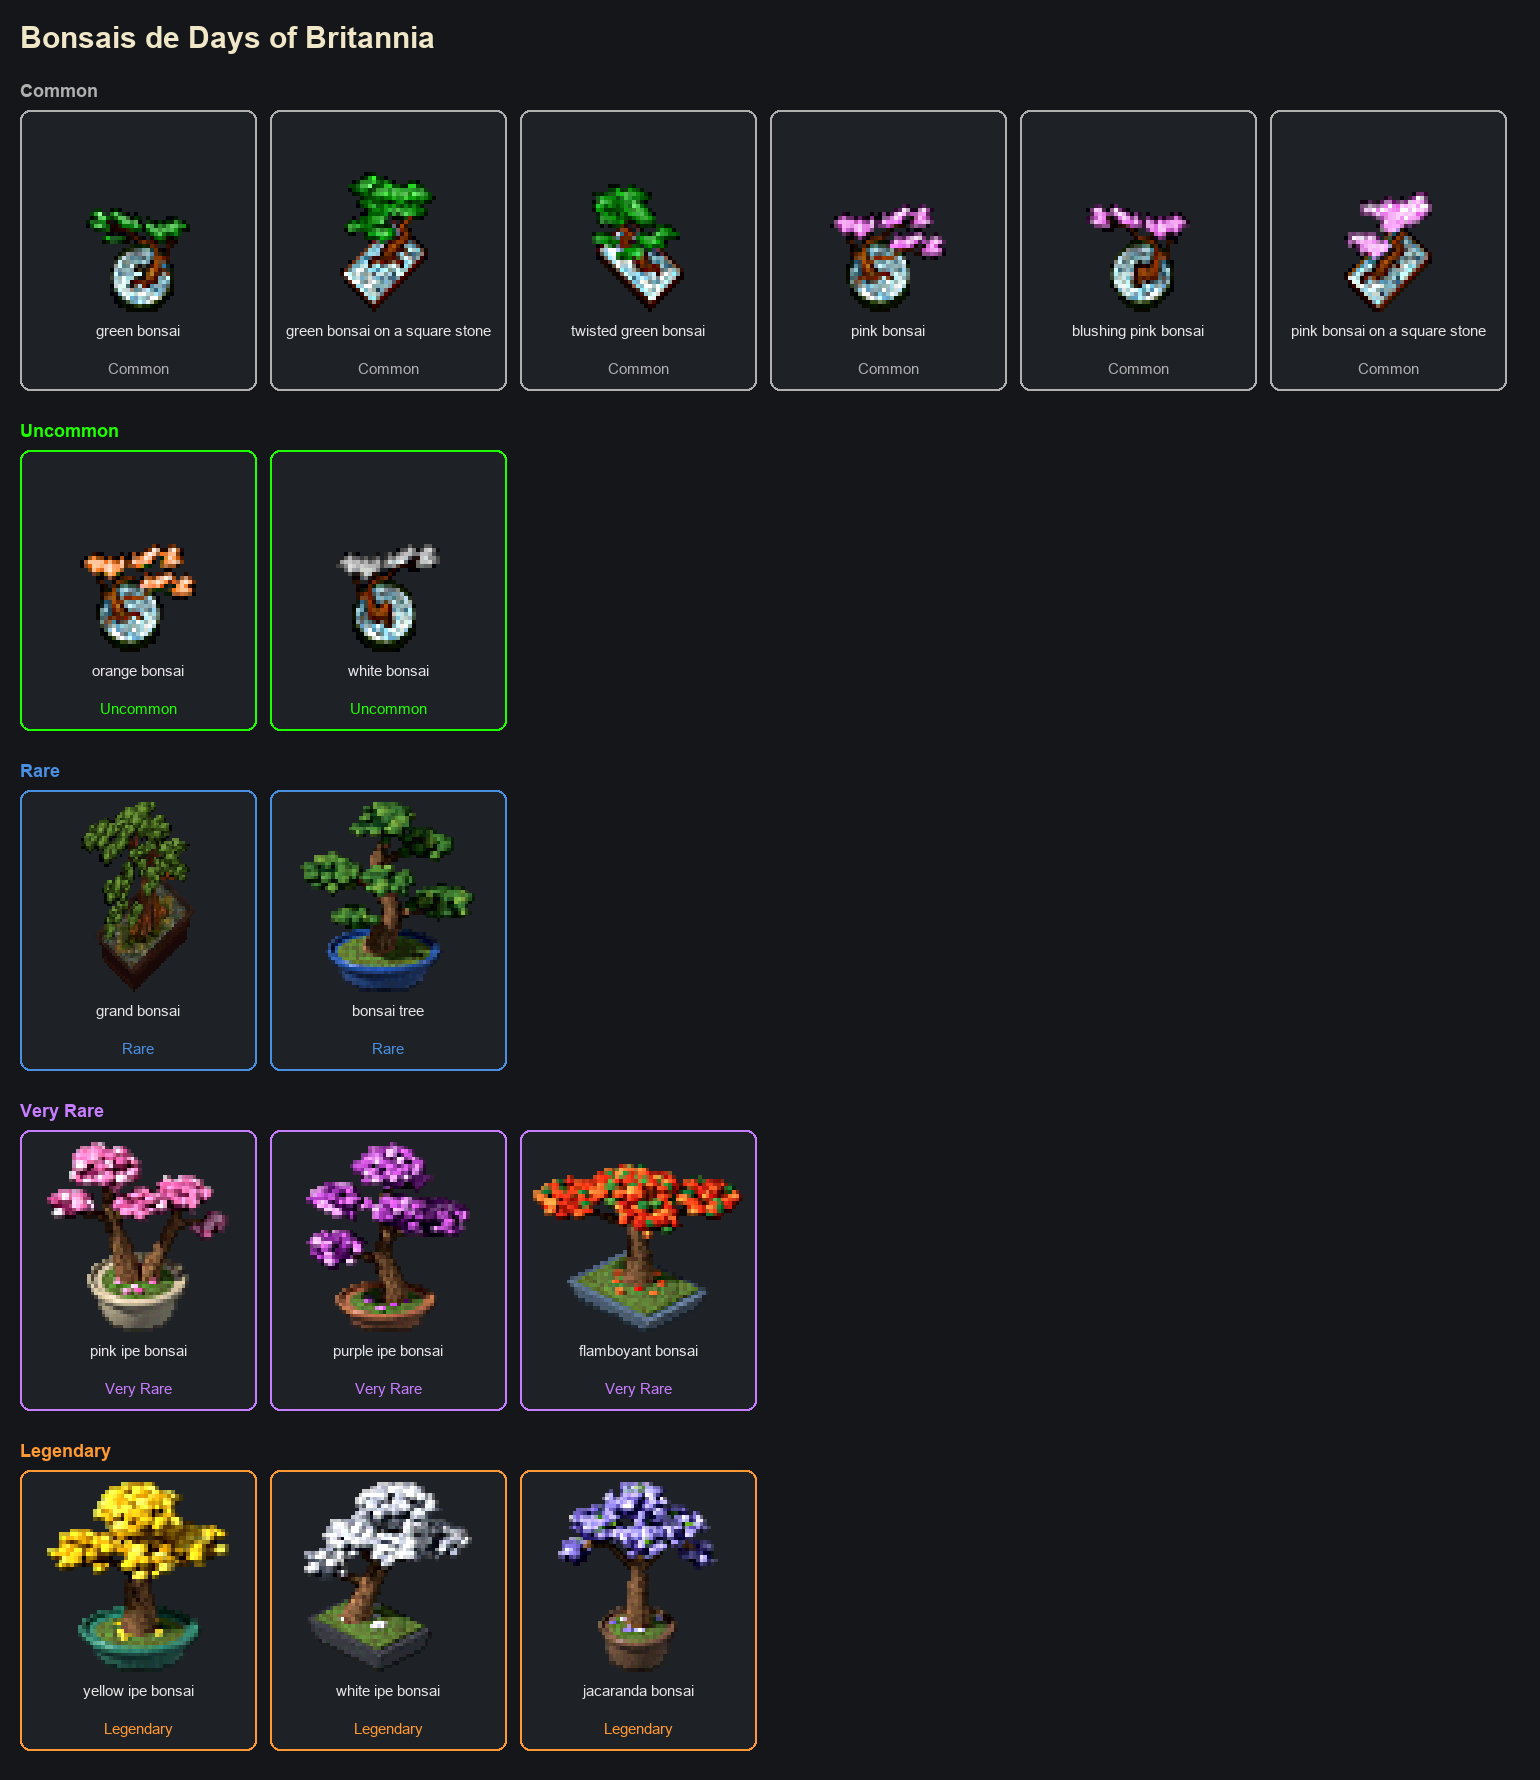
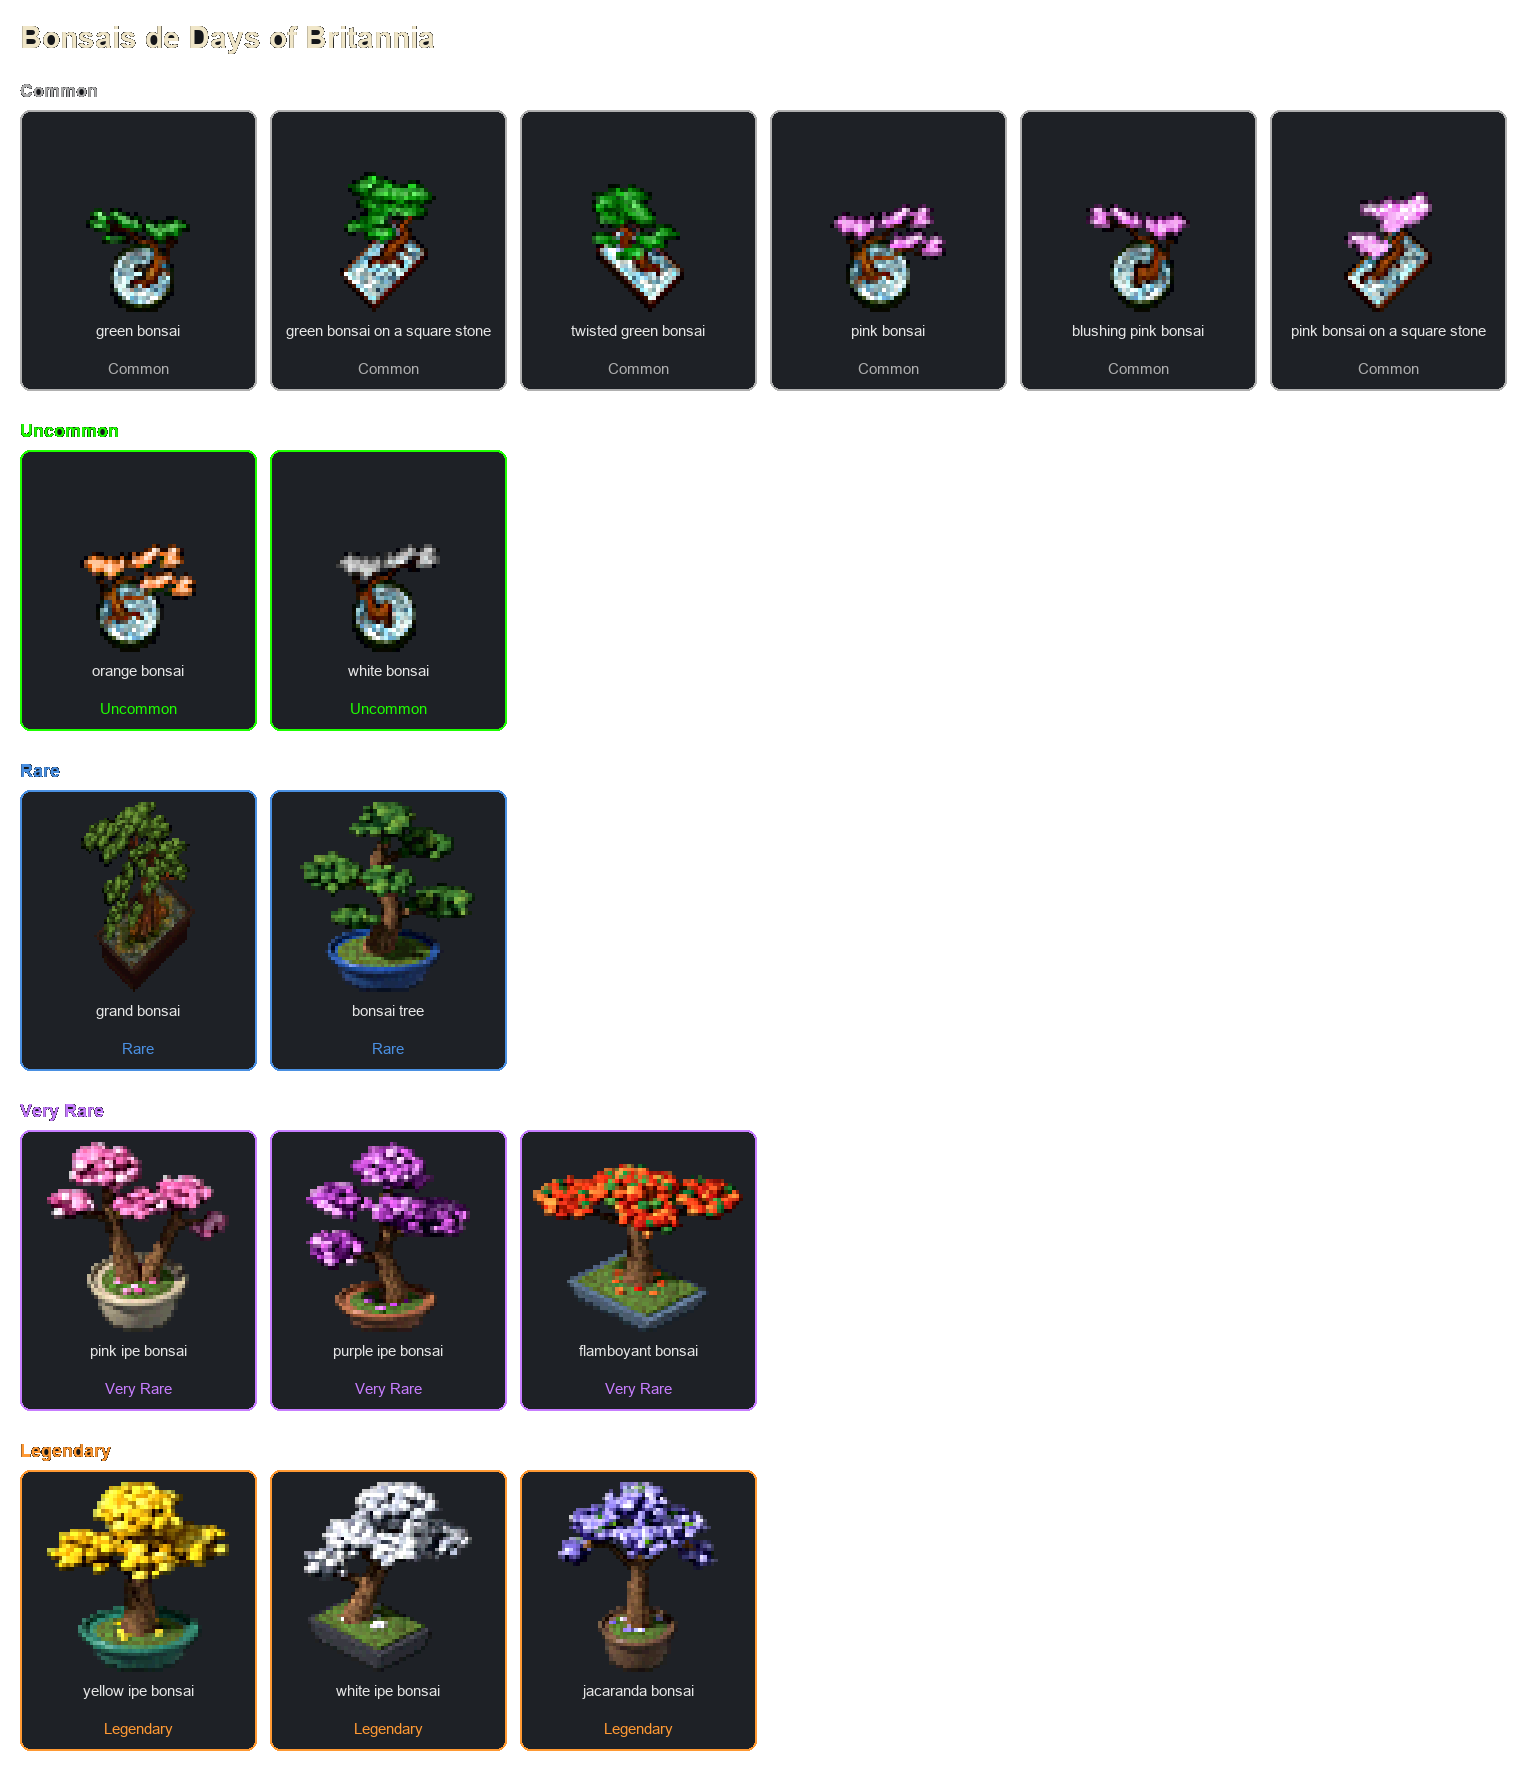
docs: transparent background for bonsai catalog photo

diff --git a/scripts/make_transparent.py b/scripts/make_transparent.py
@@ -1,0 +1,76 @@
+"""Make the outer background of the bonsai catalog transparent.
+
+Flood-fill from the image borders, replacing pixels close to the sampled
+corner color (within tolerance) with full transparency. Card interiors are
+enclosed by their own borders, so only the outside goes transparent.
+"""
+
+import sys
+from collections import deque
+
+from PIL import Image
+
+SRC = sys.argv[1]
+DST = sys.argv[2]
+TOLERANCE = int(sys.argv[3]) if len(sys.argv) > 3 else 18
+
+img = Image.open(SRC).convert("RGBA")
+w, h = img.size
+px = img.load()
+
+
+def base_color():
+    samples = [
+        px[0, 0],
+        px[w - 1, 0],
+        px[0, h - 1],
+        px[w - 1, h - 1],
+        px[w // 2, 0],
+        px[w // 2, h - 1],
+    ]
+    rs = sum(c[0] for c in samples) // len(samples)
+    gs = sum(c[1] for c in samples) // len(samples)
+    bs = sum(c[2] for c in samples) // len(samples)
+    return rs, gs, bs
+
+
+br, bg, bb = base_color()
+print(f"base=#{br:02x}{bg:02x}{bb:02x} size={w}x{h}")
+
+
+def close(p):
+    r, g, b, _a = p
+    return abs(r - br) <= TOLERANCE and abs(g - bg) <= TOLERANCE and abs(b - bb) <= TOLERANCE
+
+
+seen = bytearray(w * h)
+queue = deque()
+for x in list(range(w)) + list(range(w)):
+    queue.append((x, 0))
+    queue.append((x, h - 1))
+for y in range(1, h - 1):
+    queue.append((0, y))
+    queue.append((w - 1, y))
+
+cleared = 0
+while queue:
+    x, y = queue.popleft()
+    idx = y * w + x
+    if seen[idx]:
+        continue
+    seen[idx] = 1
+    if not close(px[x, y]):
+        continue
+    px[x, y] = (0, 0, 0, 0)
+    cleared += 1
+    if x > 0:
+        queue.append((x - 1, y))
+    if x < w - 1:
+        queue.append((x + 1, y))
+    if y > 0:
+        queue.append((x, y - 1))
+    if y < h - 1:
+        queue.append((x, y + 1))
+
+print(f"cleared={cleared}")
+img.save(DST)
